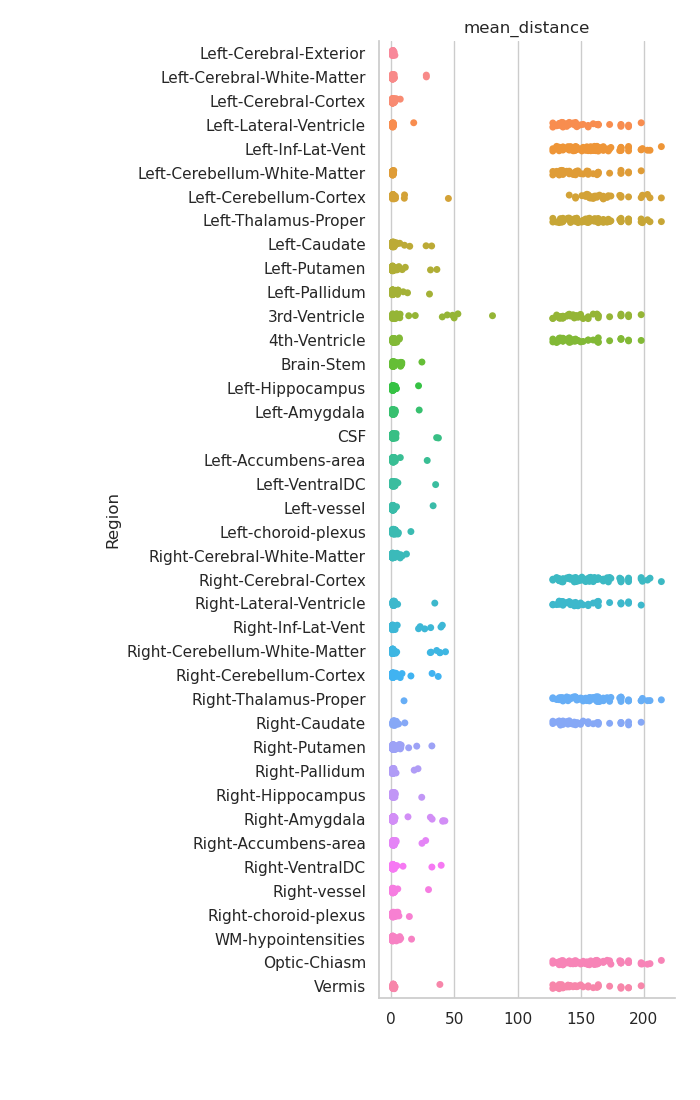
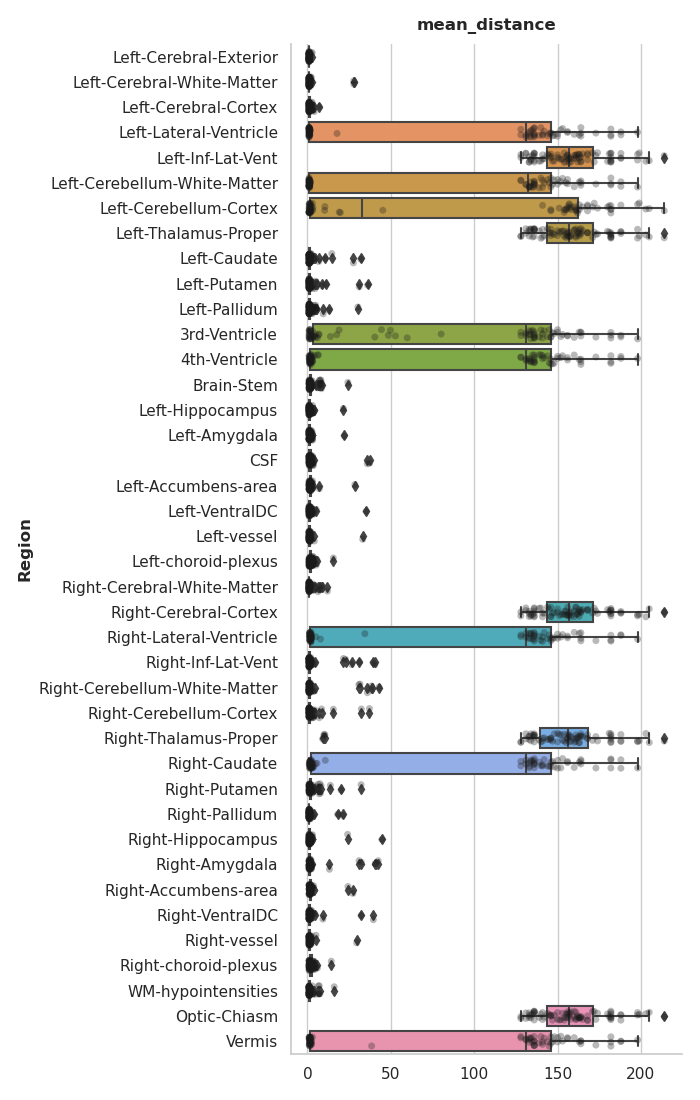
Using two-in-one plots.

diff --git a/doc/tasks/516_525/no_chirality_correction/Task516_525_NoChiralityCorrection.md b/doc/tasks/516_525/no_chirality_correction/Task516_525_NoChiralityCorrection.md
@@ -3,25 +3,20 @@ Tasks 516--525 (No chirality correction)
 
 dice
 ----
-![dice-boxplot](img/boxplot/dice.png)
 ![dice-catplot](img/catplot/dice.png)
 
 hausdorff
 ---------
-![hausdorff-boxplot](img/boxplot/hausdorff.png)
 ![hausdorff-catplot](img/catplot/hausdorff.png)
 
 hausdorff_95
 ------------
-![hausdorff_95-boxplot](img/boxplot/hausdorff_95.png)
 ![hausdorff_95-catplot](img/catplot/hausdorff_95.png)
 
 hausdorff_99
 ------------
-![hausdorff_99-boxplot](img/boxplot/hausdorff_99.png)
 ![hausdorff_99-catplot](img/catplot/hausdorff_99.png)
 
 mean_distance
 -------------
-![mean_distance-boxplot](img/boxplot/mean_distance.png)
 ![mean_distance-catplot](img/catplot/mean_distance.png)
